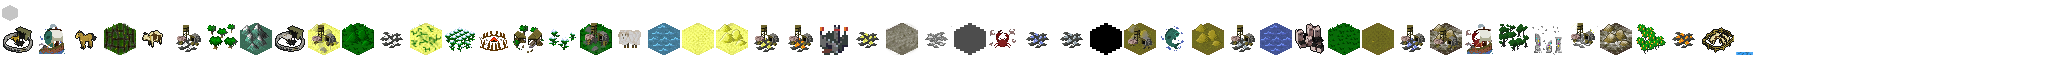
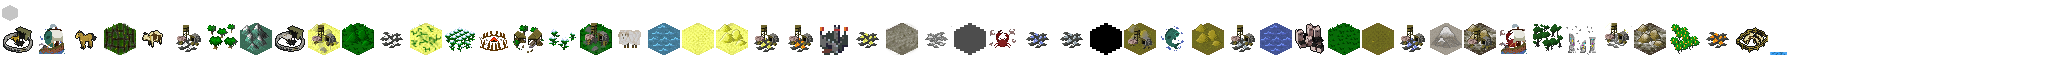
GameMap: Implement nautral wonders - St Helens

Changed region(s): [[0.6875, 0.375, 0.875, 0.8438], [0.8438, 0.8125, 0.875, 0.875]]

diff --git a/core/src/main/java/me/rhin/openciv/game/map/tile/TileType.java b/core/src/main/java/me/rhin/openciv/game/map/tile/TileType.java
@@ -57,6 +57,7 @@ public enum TileType {
 	SHEEP_IMPROVED(TextureEnum.TILE_SHEEP_IMPROVED, TileLayer.MIDDLE, TileProperty.IMPROVEMENT),
 	LUMBERMILL(TextureEnum.TILE_LUMBERMILL, TileLayer.HIGH, TileProperty.IMPROVEMENT),
 	FORT(TextureEnum.TILE_FORT, TileLayer.MIDDLE, TileProperty.IMPROVEMENT),
+	ST_HELENS(TextureEnum.TILE_ST_HELENS, TileLayer.HIGH, TileProperty.NATURAL_WONDER),
 	BARBARIAN_CAMP(TextureEnum.TILE_BARBARIAN_CAMP, TileLayer.MIDDLE, TileProperty.IMPROVEMENT),
 	RUINS(TextureEnum.TILE_RUINS, TileLayer.MIDDLE, SoundEnum.RUIN_CAPTURE, TileProperty.IMPROVEMENT),
 	ROAD(0.5F, TileProperty.ROAD);
@@ -80,7 +81,8 @@ public enum TileType {
 		HARVESTABLE,
 		ROAD,
 		QUARRY,
-		OCEAN_FARMABLE;
+		OCEAN_FARMABLE,
+		NATURAL_WONDER;
 	}
 
 	private TextureEnum assetEnum;

diff --git a/server/src/main/java/me/rhin/openciv/server/game/map/GameMap.java b/server/src/main/java/me/rhin/openciv/server/game/map/GameMap.java
@@ -2,6 +2,7 @@ package me.rhin.openciv.server.game.map;
 
 import java.util.ArrayList;
 import java.util.Arrays;
+import java.util.List;
 import java.util.Random;
 import java.util.concurrent.ConcurrentLinkedQueue;
 
@@ -364,6 +365,21 @@ public class GameMap implements MapRequestListener {
 				}
 			}
 
+		}
+
+		// Generate wonders
+		for (TileType type : TileType.values()) {
+			if (!type.hasProperty(TileProperty.NATURAL_WONDER))
+				continue;
+
+			List<TileType> spawnTileTypes = Arrays.asList(type.getSpawnTileTypes());
+
+			Tile tile = null;
+			while (tile == null || !spawnTileTypes.contains(tile.getBaseTileType())) {
+				tile = tiles[rnd.nextInt(getWidth())][rnd.nextInt(getHeight())];
+			}
+
+			tile.setTileType(type);
 		}
 
 		// Generate rivers

diff --git a/server/src/main/java/me/rhin/openciv/server/game/map/tile/TileType.java b/server/src/main/java/me/rhin/openciv/server/game/map/tile/TileType.java
@@ -646,6 +646,21 @@ public enum TileType implements Comparable<TileType> {
 			return 0.5f;
 		}
 	},
+	ST_HELENS(TileLayer.HIGH, TileProperty.NATURAL_WONDER) {
+
+		@Override
+		public StatLine getStatLine() {
+			StatLine statLine = new StatLine();
+			statLine.addValue(Stat.HERITAGE_GAIN, 3);
+			statLine.addValue(Stat.GOLD_GAIN, 4);
+			return statLine;
+		}
+
+		@Override
+		public TileType[] getSpawnTileTypes() {
+			return new TileType[] { TileType.GRASS };
+		}
+	},
 	BARBARIAN_CAMP(TileLayer.MIDDLE) {
 		@Override
 		public StatLine getStatLine() {
@@ -684,7 +699,8 @@ public enum TileType implements Comparable<TileType> {
 		LUXURY,
 		RESOURCE,
 		IMPROVEMENT,
-		HILL;
+		HILL,
+		NATURAL_WONDER;
 	}
 
 	private TileLayer tileLayer;

diff --git a/server/src/main/java/me/rhin/openciv/server/game/city/City.java b/server/src/main/java/me/rhin/openciv/server/game/city/City.java
@@ -126,7 +126,7 @@ public class City
 
 		String civName = player.getCiv().getName().toLowerCase();
 
-		if (civName.contains("citystate"))
+		if (civName.contains("citystate") || player.getOwnedCities().size() > 14)
 			civName = "default";
 
 		try {
@@ -143,7 +143,9 @@ public class City
 
 		if (player.getOwnedCities().size() < 1 && !civName.equals("default"))
 			return names.get(0);
-
+		
+		
+		
 		Random rnd = new Random();
 		return names.get(rnd.nextInt(names.size()));
 	}

diff --git a/server/src/main/java/me/rhin/openciv/server/game/ai/type/CityStatePlayer.java b/server/src/main/java/me/rhin/openciv/server/game/ai/type/CityStatePlayer.java
@@ -70,6 +70,7 @@ public class CityStatePlayer extends AIPlayer {
 			settleInitialCity();
 		}
 
+		//TODO: Make these module classed.
 		modifyIntimidation();
 		progressResearch();
 		choseProduction();

diff --git a/core/src/main/java/me/rhin/openciv/asset/TextureEnum.java b/core/src/main/java/me/rhin/openciv/asset/TextureEnum.java
@@ -62,6 +62,7 @@ public enum TextureEnum {
 	TILE_BARBARIAN_CAMP,
 	TILE_RUINS,
 	TILE_LUMBERMILL,
+	TILE_ST_HELENS,
 	UNIT_SETTLER,
 	UNIT_WARRIOR,
 	UNIT_SCOUT,
